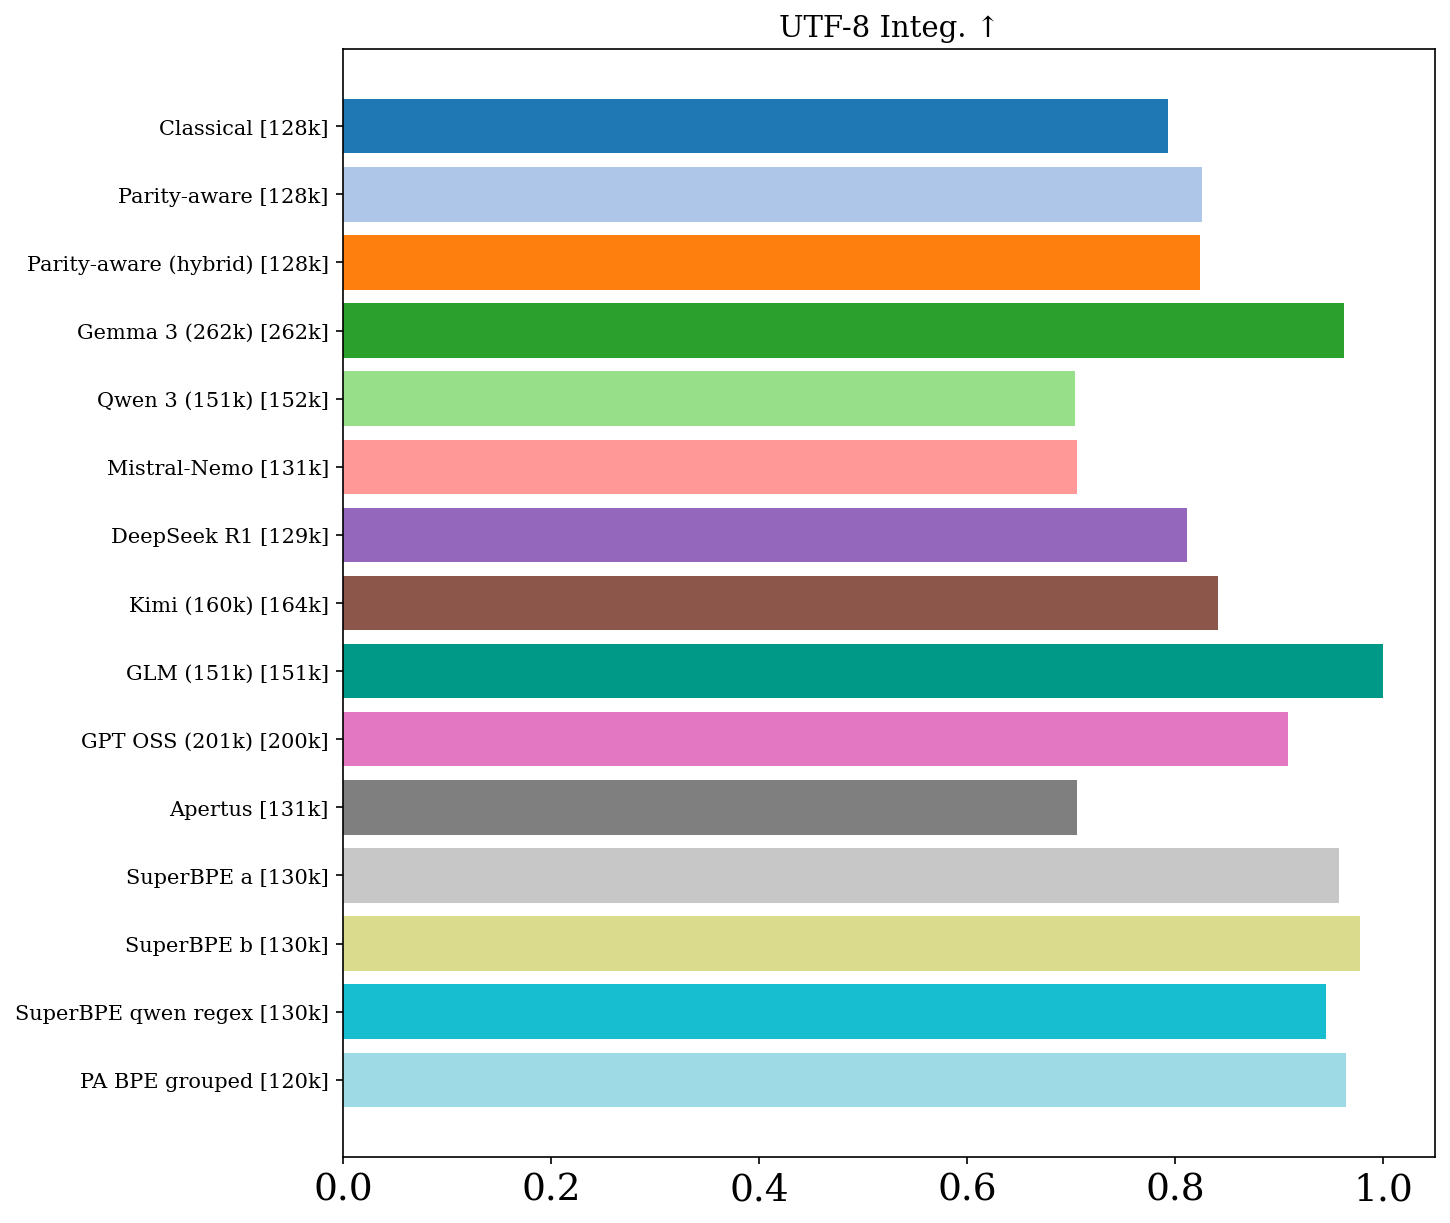
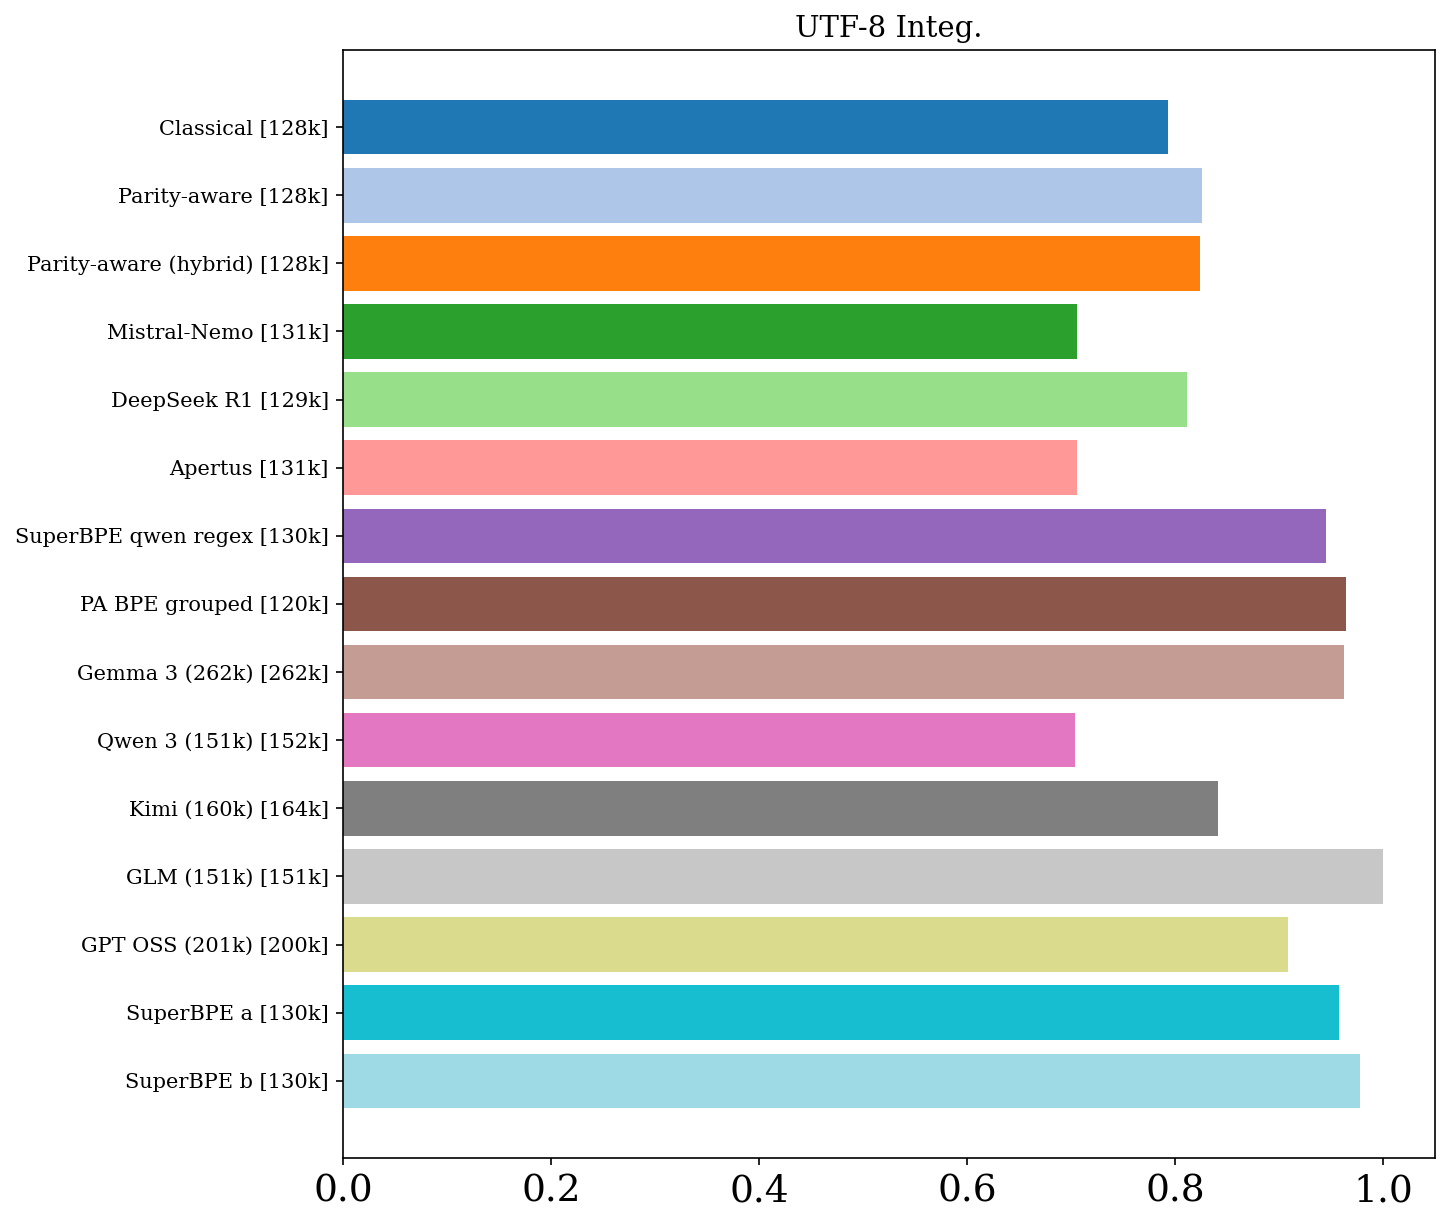
Update RESULTS_flores+_lines.md (2026-02-26 17:33:24)

diff --git a/RESULTS_flores+_lines.md b/RESULTS_flores+_lines.md
@@ -1,19 +1,47 @@
-# Tokenizer Evaluation Results
+# Tokenizer Evaluation Results — flores+ / lines
 
-_Last updated: 2026-02-26 17:32:44_
+_Last updated: 2026-02-26 17:22:17_
 
-| Tokenizer | Vocab Size | Fertility | Compression Rate | Vocab Util. | Avg Token Rank | Gini | 3-Digit Align. F1 | Op. Isolation | AST Align. | Ident. Frag. | Depth Corr. | Pat. Stability | UTF-8 Integ. | Char Split | Languages | TTR | Shannon Entropy | Dataset | User | Date |
-| --- | --- | --- | --- | --- | --- | --- | --- | --- | --- | --- | --- | --- | --- | --- | --- | --- | --- | --- | --- | --- |
-| Apertus (cmeister747, flores+) | 131,072 | 64.763 | 0.023 | 0.564 | 4318.1 | 0.308 | 0.363 | 0.185 | --- | --- | --- | --- | --- | --- | 92 | 0.0124 | 11.57 | flores+ | cmeister747 | 2026-02-22 |
-| Parity-aware (hybrid) (cmeister747, flores+) | 128,004 | 58.267 | 0.022 | 0.691 | 4640.4 | 0.223 | 0.741 | 0.224 | --- | --- | --- | --- | --- | --- | 92 | 0.0166 | 12.19 | flores+ | cmeister747 | 2026-02-22 |
-| SuperBPE a (cmeister747, flores+) | 130,000 | 46.224 | 0.025 | 0.553 | 9333.4 | 0.106 | 0.767 | 0.339 | --- | --- | --- | --- | --- | --- | 92 | 0.0170 | 14.02 | flores+ | cmeister747 | 2026-02-22 |
-| SuperBPE b (cmeister747, flores+) | 130,000 | 52.158 | 0.024 | 0.593 | 7591.0 | 0.192 | 0.767 | 0.982 | --- | --- | --- | --- | --- | --- | 92 | 0.0161 | 13.28 | flores+ | cmeister747 | 2026-02-22 |
-| PA BPE grouped (cmeister747, flores+) | 120,260 | 47.187 | 0.024 | 0.632 | 8240.1 | 0.064 | 0.700 | 0.224 | --- | --- | --- | --- | --- | --- | 92 | 0.0176 | 13.41 | flores+ | cmeister747 | 2026-02-22 |
-| Qwen 3 (151k) (cmeister747, flores+) | 151,669 | 75.897 | 0.020 | 0.324 | 1699.6 | 0.312 | 0.363 | 0.497 | --- | --- | --- | --- | --- | --- | 92 | 0.0071 | 11.05 | flores+ | cmeister747 | 2026-02-22 |
-| DeepSeek R1 (cmeister747, flores+) | 128,815 | 61.674 | 0.021 | 0.418 | 2910.0 | 0.232 | 0.767 | 0.481 | --- | --- | --- | --- | --- | --- | 92 | 0.0095 | 12.13 | flores+ | cmeister747 | 2026-02-22 |
-| Kimi (160k) (cmeister747, flores+) | 163,840 | 62.820 | 0.020 | 0.244 | 2283.0 | 0.199 | 0.767 | 0.466 | --- | --- | --- | --- | --- | --- | 92 | 0.0069 | 12.09 | flores+ | cmeister747 | 2026-02-22 |
-| GLM (151k) (cmeister747, flores+) | 151,343 | 86.320 | 0.019 | 0.364 | 1631.6 | 0.372 | 0.461 | 0.000 | --- | --- | --- | --- | --- | --- | 92 | 0.0070 | 10.22 | flores+ | cmeister747 | 2026-02-22 |
-| GPT OSS (201k) (cmeister747, flores+) | 200,019 | 47.045 | 0.027 | 0.521 | 9529.8 | 0.169 | 0.767 | 0.371 | --- | --- | --- | --- | --- | --- | 92 | 0.0242 | 13.55 | flores+ | cmeister747 | 2026-02-22 |
-| Apertus_Coarse_Family (cmeister747, flores+) | 131,072 | 67.487 | 0.022 | 0.560 | 4016.1 | 0.302 | 0.363 | 0.249 | --- | --- | --- | --- | --- | --- | 92 | 0.0119 | 11.31 | flores+ | cmeister747 | 2026-02-22 |
-| BPE_Coarse_Family (cmeister747, flores+) | 131,072 | 49.707 | 0.024 | 0.543 | 7585.0 | 0.096 | 0.363 | 0.494 | --- | --- | --- | --- | --- | --- | 92 | 0.0156 | 13.39 | flores+ | cmeister747 | 2026-02-22 |
-| Boundless pairwise aggressive n2 (dkletz, flores+) | 5,033 | 88.335 | 0.013 | 0.644 | 108.7 | 0.082 | --- | 0.047 | --- | --- | --- | --- | --- | --- | 92 | 0.0004 | 7.19 | flores+ | dkletz | 2026-02-22 |
+| Tokenizer | Vocab Size | Fertility ↓ | Compression Rate ↑ | Vocab Util. ↑ | Avg Token Rank ↓ | Gini ↓ | 3-Digit Align. F1 ↑ | Op. Isolation ↑ | AST Align. ↑ | Ident. Frag. ↓ | Depth Corr. ↑ | Pat. Stability ↑ | Bound. Cross ↓ | Char Split ↓ | Languages | UTF-8 Integ. | TTR | Shannon Entropy | Dataset | User | Date |
+| --- | --- | --- | --- | --- | --- | --- | --- | --- | --- | --- | --- | --- | --- | --- | --- | --- | --- | --- | --- | --- | --- |
+| Classical [128k] | 128,004 | 59.463 | 0.022 | 0.682 | 4663.5 | 0.246 | 0.767 | 0.224 | 0.148 | 0.055 | **0.000** | **1.000** | 0.0574 | 0.1337 | 92 | 0.793 | --- | --- | flores+ | meistecl | 2026-02-26 |
+| Parity-aware [128k] | 128,004 | 59.101 | 0.022 | **0.691** | 4456.6 | 0.220 | 0.728 | 0.224 | 0.188 | 0.082 | 0.000 | 1.000 | 0.0440 | 0.1106 | 92 | 0.826 | --- | --- | flores+ | meistecl | 2026-02-26 |
+| Parity-aware (hybrid) [128k] | 128,004 | 58.267 | 0.022 | 0.691 | 4640.4 | 0.223 | 0.741 | 0.224 | 0.160 | 0.066 | 0.000 | 1.000 | 0.0450 | 0.1107 | 92 | 0.824 | --- | --- | flores+ | meistecl | 2026-02-26 |
+| Gemma 3 [262k] | 262,145 | **46.221** | 0.026 | 0.447 | 9461.6 | 0.126 | 0.432 | 0.406 | 0.088 | 0.030 | -0.113 | 0.966 | 0.0293 | 0.0110 | 92 | --- | --- | --- | flores+ | meistecl | 2026-02-26 |
+| Qwen 3 [152k] | 151,669 | 75.897 | 0.020 | 0.324 | 1699.6 | 0.312 | 0.363 | 0.497 | 0.605 | 0.383 | 0.000 | 1.000 | 0.0561 | 0.2422 | 92 | --- | --- | --- | flores+ | meistecl | 2026-02-26 |
+| Qwen 3.5 [248k] | 248,077 | 53.347 | 0.024 | 0.387 | 5435.7 | 0.204 | 0.363 | 0.496 | **0.680** | 0.381 | 0.000 | 1.000 | 0.0096 | 0.0352 | 92 | --- | --- | --- | flores+ | meistecl | 2026-02-26 |
+| GPT-4 [100k] | 100,261 | 90.731 | 0.018 | 0.279 | 874.3 | 0.357 | 0.744 | 0.499 | 0.610 | 0.434 | 0.000 | 1.000 | 0.0516 | 0.4675 | 92 | --- | --- | --- | flores+ | meistecl | 2026-02-26 |
+| GPT-4o [200k] | 200,000 | 48.585 | 0.025 | 0.475 | 8435.5 | 0.160 | 0.741 | 0.376 | 0.615 | 0.450 | 0.000 | 1.000 | 0.0096 | 0.0495 | 92 | --- | --- | --- | flores+ | meistecl | 2026-02-26 |
+| Mistral-Nemo [131k] | 131,072 | 64.763 | 0.023 | 0.564 | 4318.1 | 0.308 | 0.363 | 0.185 | 0.060 | 0.037 | 0.000 | 1.000 | 0.0171 | 0.1525 | 92 | 0.706 | --- | --- | flores+ | meistecl | 2026-02-26 |
+| DeepSeek R1 [129k] | 128,815 | 62.674 | 0.021 | 0.418 | 2864.6 | 0.229 | 0.767 | 0.204 | 0.000 | --- | 0.000 | 1.000 | 0.0509 | 0.0103 | 92 | 0.811 | --- | --- | flores+ | meistecl | 2026-02-26 |
+| Kimi [164k] | 163,840 | 62.820 | 0.020 | 0.244 | 2283.0 | 0.199 | 0.767 | 0.466 | 0.609 | 0.408 | 0.000 | 1.000 | 0.0498 | 0.1139 | 92 | --- | --- | --- | flores+ | meistecl | 2026-02-26 |
+| GLM [151k] | 151,343 | 86.320 | 0.019 | 0.364 | 1631.6 | 0.372 | 0.471 | 0.000 | 0.001 | **0.000** | 0.000 | 1.000 | **0.0000** | **0.0000** | 92 | --- | --- | --- | flores+ | meistecl | 2026-02-26 |
+| GPT OSS [200k] | 200,019 | 47.045 | **0.027** | 0.521 | 9529.8 | 0.169 | 0.767 | 0.371 | 0.609 | 0.401 | 0.000 | 1.000 | 0.0078 | 0.0475 | 92 | --- | --- | --- | flores+ | meistecl | 2026-02-26 |
+| Apertus [131k] | 131,072 | 64.763 | 0.023 | 0.564 | 4318.1 | 0.308 | 0.363 | 0.185 | 0.060 | 0.037 | 0.000 | 1.000 | 0.0171 | 0.1525 | 92 | 0.706 | --- | --- | flores+ | meistecl | 2026-02-26 |
+| SuperBPE default regex [130k] | 130,000 | 46.224 | 0.025 | 0.553 | 9333.4 | 0.106 | 0.767 | 0.339 | 0.225 | 0.028 | 0.000 | 1.000 | 0.0206 | 0.0249 | 92 | --- | --- | --- | flores+ | meistecl | 2026-02-26 |
+| DeepSeek V3 [129k] | 128,815 | 62.674 | 0.021 | 0.418 | 2864.6 | 0.229 | 0.767 | 0.204 | 0.000 | --- | 0.000 | 1.000 | 0.0509 | 0.0103 | 92 | --- | --- | --- | flores+ | meistecl | 2026-02-26 |
+| SuperBPE Apertus regex [130k] | 130,000 | 52.158 | 0.024 | 0.593 | 7591.0 | 0.192 | 0.767 | 0.982 | 0.259 | 0.029 | 0.000 | 1.000 | 0.0085 | 0.0139 | 92 | --- | --- | --- | flores+ | meistecl | 2026-02-26 |
+| SuperBPE qwen regex [130k] | 130,000 | 48.526 | 0.024 | 0.572 | 9524.6 | 0.097 | 0.363 | 0.268 | 0.284 | 0.024 | 0.000 | 1.000 | 0.0292 | 0.0332 | 92 | 0.945 | --- | --- | flores+ | meistecl | 2026-02-26 |
+| SuperBPE math [130k] | 130,000 | 52.985 | 0.024 | 0.543 | 6733.8 | 0.190 | 0.767 | **0.983** | 0.264 | 0.028 | 0.000 | 1.000 | 0.0092 | 0.0126 | 92 | --- | --- | --- | flores+ | meistecl | 2026-02-26 |
+| SuperBPE math new reg [130k] | 130,000 | 46.554 | 0.025 | 0.539 | 8783.4 | 0.112 | **0.944** | 0.288 | 0.230 | 0.027 | 0.000 | 1.000 | 0.0218 | 0.0242 | 92 | --- | --- | --- | flores+ | meistecl | 2026-02-26 |
+| PA BPE grouped [120k] | 120,260 | 47.187 | 0.024 | 0.632 | 8240.1 | **0.064** | 0.700 | 0.224 | 0.159 | 0.067 | 0.000 | 1.000 | 0.0173 | 0.0205 | 92 | 0.964 | --- | --- | flores+ | meistecl | 2026-02-26 |
+| Gemma 3 (262k) [262k] | 262,145 | 46.221 | 0.026 | 0.447 | 9461.6 | 0.126 | 0.432 | 0.406 | 0.088 | 0.030 | -0.113 | 0.966 | --- | 0.0110 | 92 | 0.962 | --- | --- | flores+ | meistecl | 2026-02-25 |
+| Qwen 3 (151k) [152k] | 151,669 | 75.897 | 0.020 | 0.324 | 1699.6 | 0.312 | 0.363 | 0.497 | 0.605 | 0.383 | 0.000 | 1.000 | --- | 0.2422 | 92 | 0.704 | --- | --- | flores+ | meistecl | 2026-02-25 |
+| Kimi (160k) [164k] | 163,840 | 62.820 | 0.020 | 0.244 | 2283.0 | 0.199 | 0.767 | 0.466 | 0.609 | 0.408 | 0.000 | 1.000 | --- | 0.1139 | 92 | 0.841 | --- | --- | flores+ | meistecl | 2026-02-25 |
+| GLM (151k) [151k] | 151,343 | 86.320 | 0.019 | 0.364 | 1631.6 | 0.372 | 0.471 | 0.000 | 0.001 | 0.000 | 0.000 | 1.000 | --- | 0.0000 | 92 | 1.000 | --- | --- | flores+ | meistecl | 2026-02-25 |
+| GPT OSS (201k) [200k] | 200,019 | 47.045 | 0.027 | 0.521 | 9529.8 | 0.169 | 0.767 | 0.371 | 0.609 | 0.401 | 0.000 | 1.000 | --- | 0.0475 | 92 | 0.909 | --- | --- | flores+ | meistecl | 2026-02-25 |
+| SuperBPE a [130k] | 130,000 | 46.224 | 0.025 | 0.553 | 9333.4 | 0.106 | 0.767 | 0.339 | 0.225 | 0.028 | 0.000 | 1.000 | --- | 0.0249 | 92 | 0.958 | --- | --- | flores+ | meistecl | 2026-02-25 |
+| SuperBPE b [130k] | 130,000 | 52.158 | 0.024 | 0.593 | 7591.0 | 0.192 | 0.767 | 0.982 | 0.259 | 0.029 | 0.000 | 1.000 | --- | 0.0139 | 92 | 0.978 | --- | --- | flores+ | meistecl | 2026-02-25 |
+| Apertus (cmeister747, flores+) | 131,072 | 64.763 | 0.023 | 0.564 | 4318.1 | 0.308 | 0.363 | 0.185 | --- | --- | --- | --- | --- | --- | 92 | --- | 0.0124 | 11.57 | flores+ | cmeister747 | 2026-02-22 |
+| Parity-aware (hybrid) (cmeister747, flores+) | 128,004 | 58.267 | 0.022 | 0.691 | 4640.4 | 0.223 | 0.741 | 0.224 | --- | --- | --- | --- | --- | --- | 92 | --- | 0.0166 | 12.19 | flores+ | cmeister747 | 2026-02-22 |
+| SuperBPE a (cmeister747, flores+) | 130,000 | 46.224 | 0.025 | 0.553 | 9333.4 | 0.106 | 0.767 | 0.339 | --- | --- | --- | --- | --- | --- | 92 | --- | 0.0170 | 14.02 | flores+ | cmeister747 | 2026-02-22 |
+| SuperBPE b (cmeister747, flores+) | 130,000 | 52.158 | 0.024 | 0.593 | 7591.0 | 0.192 | 0.767 | 0.982 | --- | --- | --- | --- | --- | --- | 92 | --- | 0.0161 | 13.28 | flores+ | cmeister747 | 2026-02-22 |
+| PA BPE grouped (cmeister747, flores+) | 120,260 | 47.187 | 0.024 | 0.632 | 8240.1 | 0.064 | 0.700 | 0.224 | --- | --- | --- | --- | --- | --- | 92 | --- | 0.0176 | 13.41 | flores+ | cmeister747 | 2026-02-22 |
+| Qwen 3 (151k) (cmeister747, flores+) | 151,669 | 75.897 | 0.020 | 0.324 | 1699.6 | 0.312 | 0.363 | 0.497 | --- | --- | --- | --- | --- | --- | 92 | --- | 0.0071 | 11.05 | flores+ | cmeister747 | 2026-02-22 |
+| DeepSeek R1 (cmeister747, flores+) | 128,815 | 61.674 | 0.021 | 0.418 | 2910.0 | 0.232 | 0.767 | 0.481 | --- | --- | --- | --- | --- | --- | 92 | --- | 0.0095 | 12.13 | flores+ | cmeister747 | 2026-02-22 |
+| Kimi (160k) (cmeister747, flores+) | 163,840 | 62.820 | 0.020 | 0.244 | 2283.0 | 0.199 | 0.767 | 0.466 | --- | --- | --- | --- | --- | --- | 92 | --- | 0.0069 | 12.09 | flores+ | cmeister747 | 2026-02-22 |
+| GLM (151k) (cmeister747, flores+) | 151,343 | 86.320 | 0.019 | 0.364 | 1631.6 | 0.372 | 0.461 | 0.000 | --- | --- | --- | --- | --- | --- | 92 | --- | 0.0070 | 10.22 | flores+ | cmeister747 | 2026-02-22 |
+| GPT OSS (201k) (cmeister747, flores+) | 200,019 | 47.045 | 0.027 | 0.521 | 9529.8 | 0.169 | 0.767 | 0.371 | --- | --- | --- | --- | --- | --- | 92 | --- | 0.0242 | 13.55 | flores+ | cmeister747 | 2026-02-22 |
+| Apertus_Coarse_Family (cmeister747, flores+) | 131,072 | 67.487 | 0.022 | 0.560 | 4016.1 | 0.302 | 0.363 | 0.249 | --- | --- | --- | --- | --- | --- | 92 | --- | 0.0119 | 11.31 | flores+ | cmeister747 | 2026-02-22 |
+| BPE_Coarse_Family (cmeister747, flores+) | 131,072 | 49.707 | 0.024 | 0.543 | 7585.0 | 0.096 | 0.363 | 0.494 | --- | --- | --- | --- | --- | --- | 92 | --- | 0.0156 | 13.39 | flores+ | cmeister747 | 2026-02-22 |
+| Boundless pairwise aggressive n2 (dkletz, flores+) | 5,033 | 88.335 | 0.013 | 0.644 | **108.7** | 0.082 | --- | 0.047 | --- | --- | --- | --- | --- | --- | 92 | --- | 0.0004 | 7.19 | flores+ | dkletz | 2026-02-22 |
